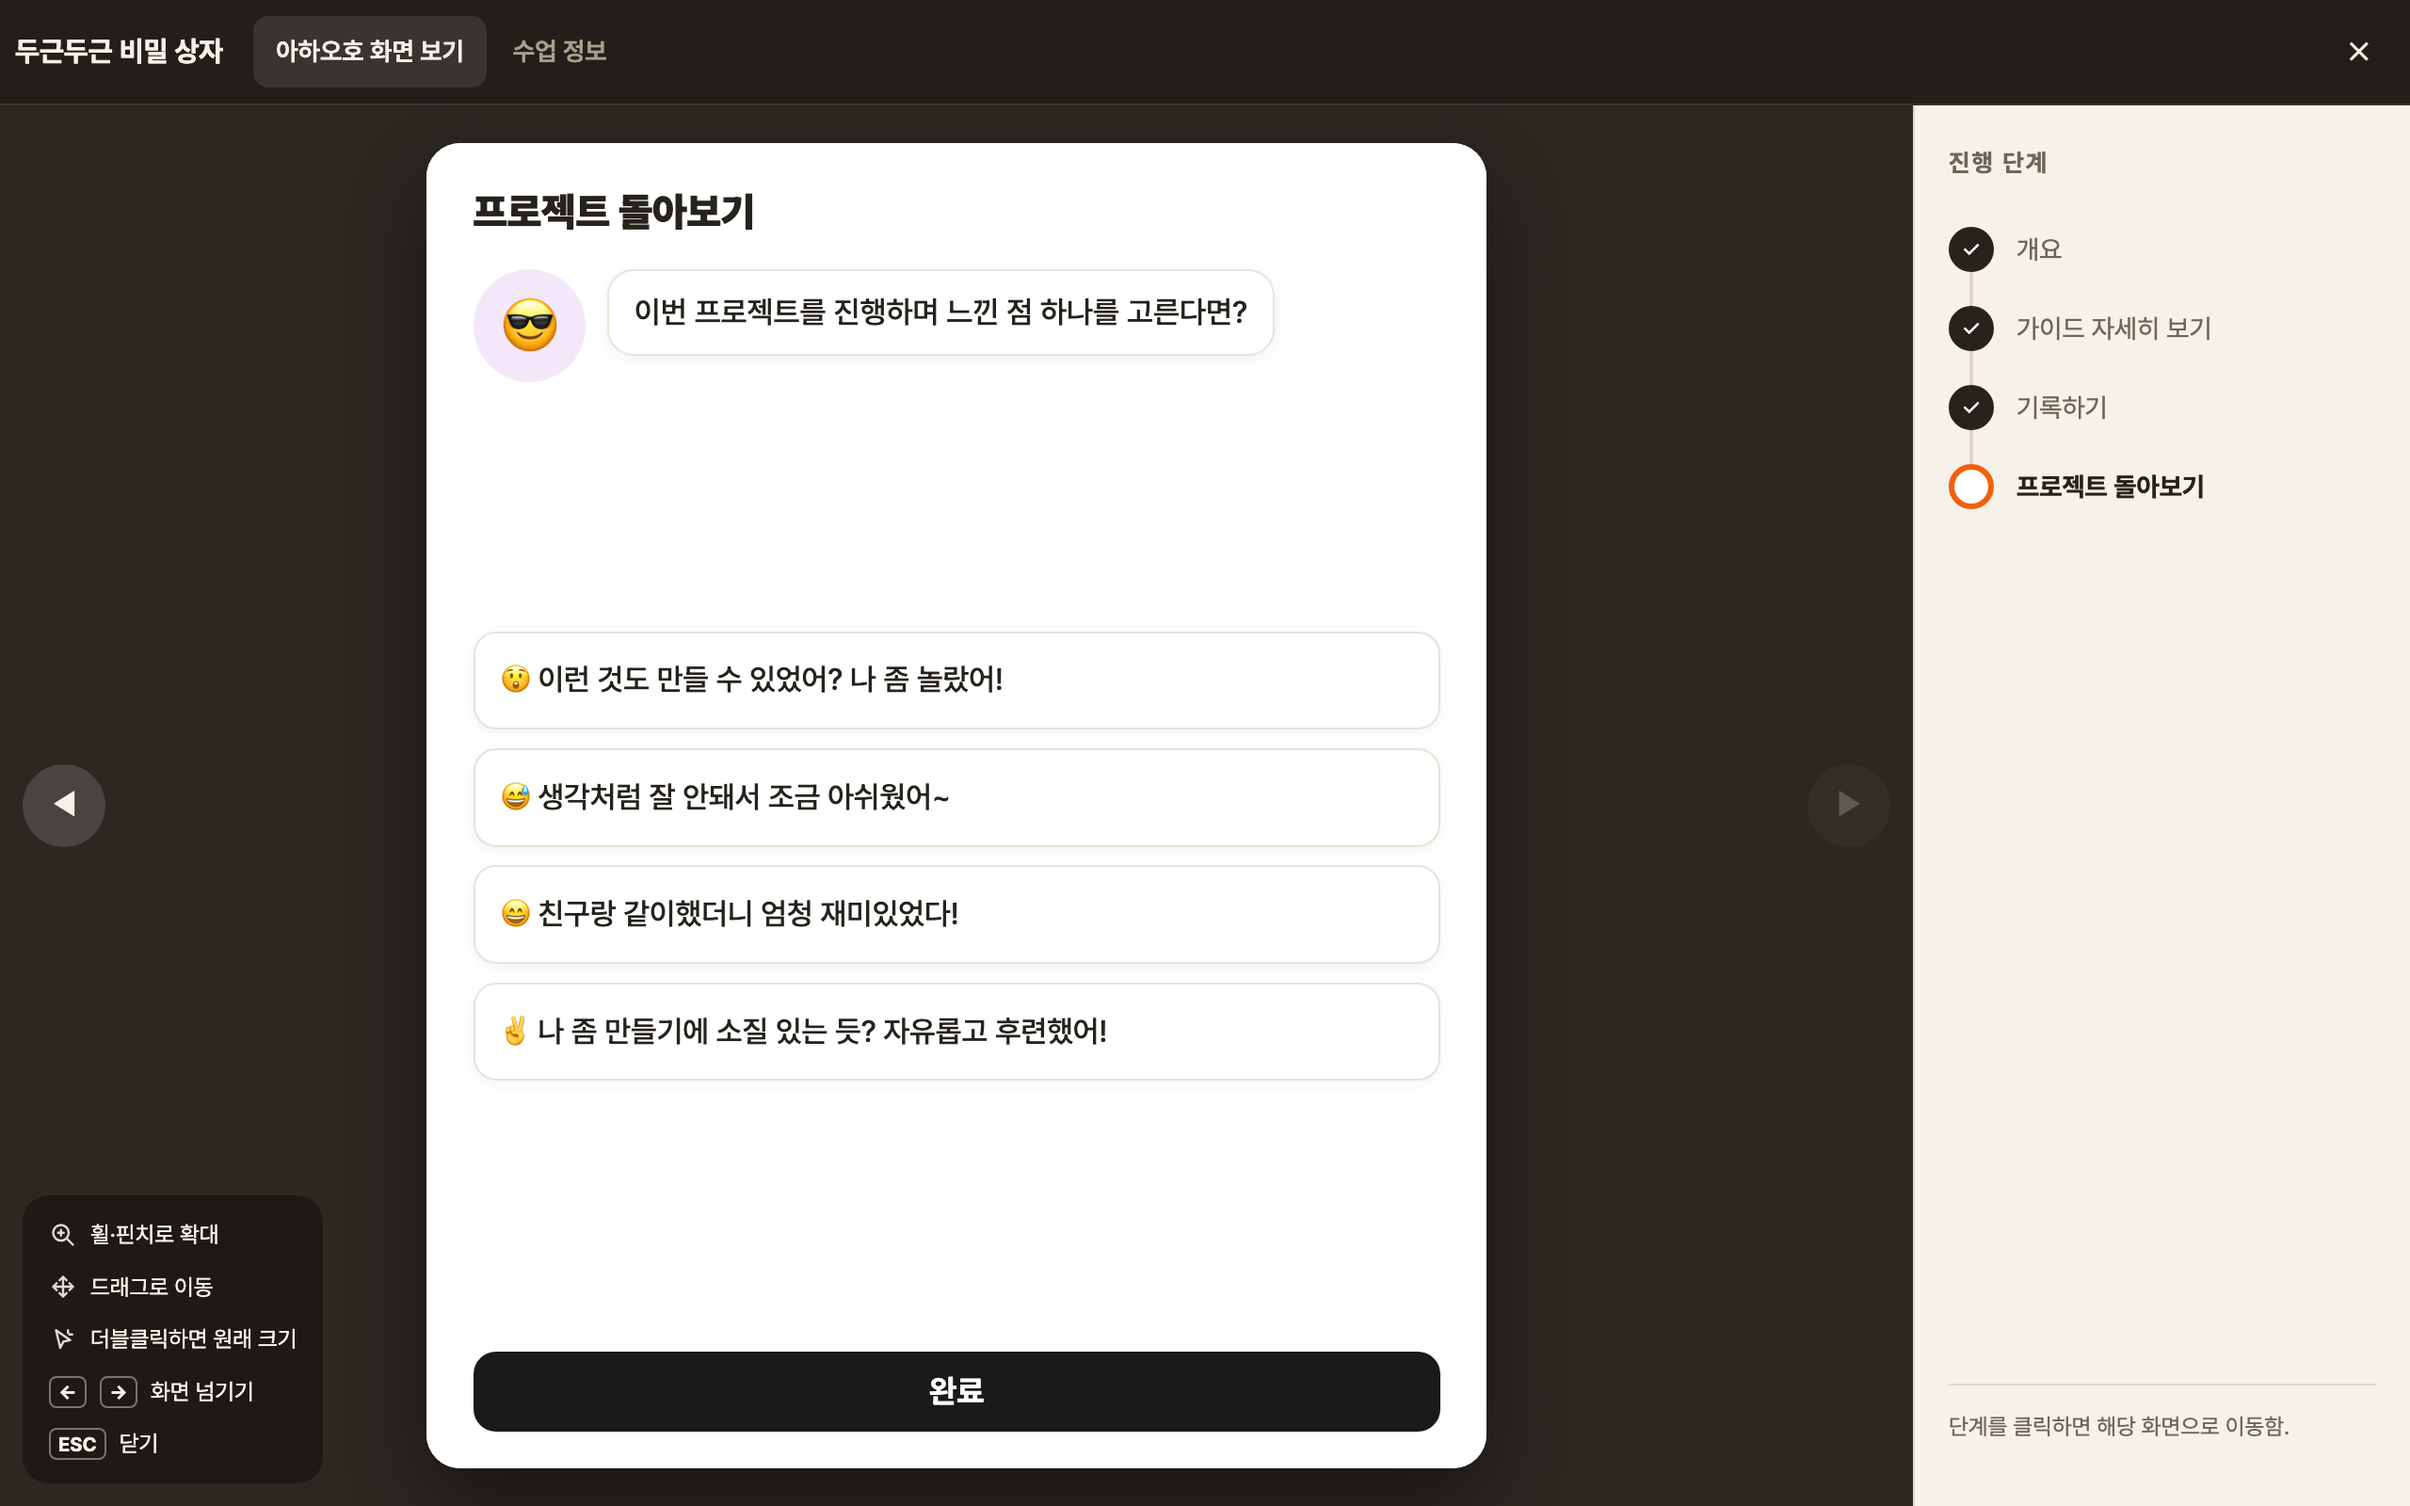
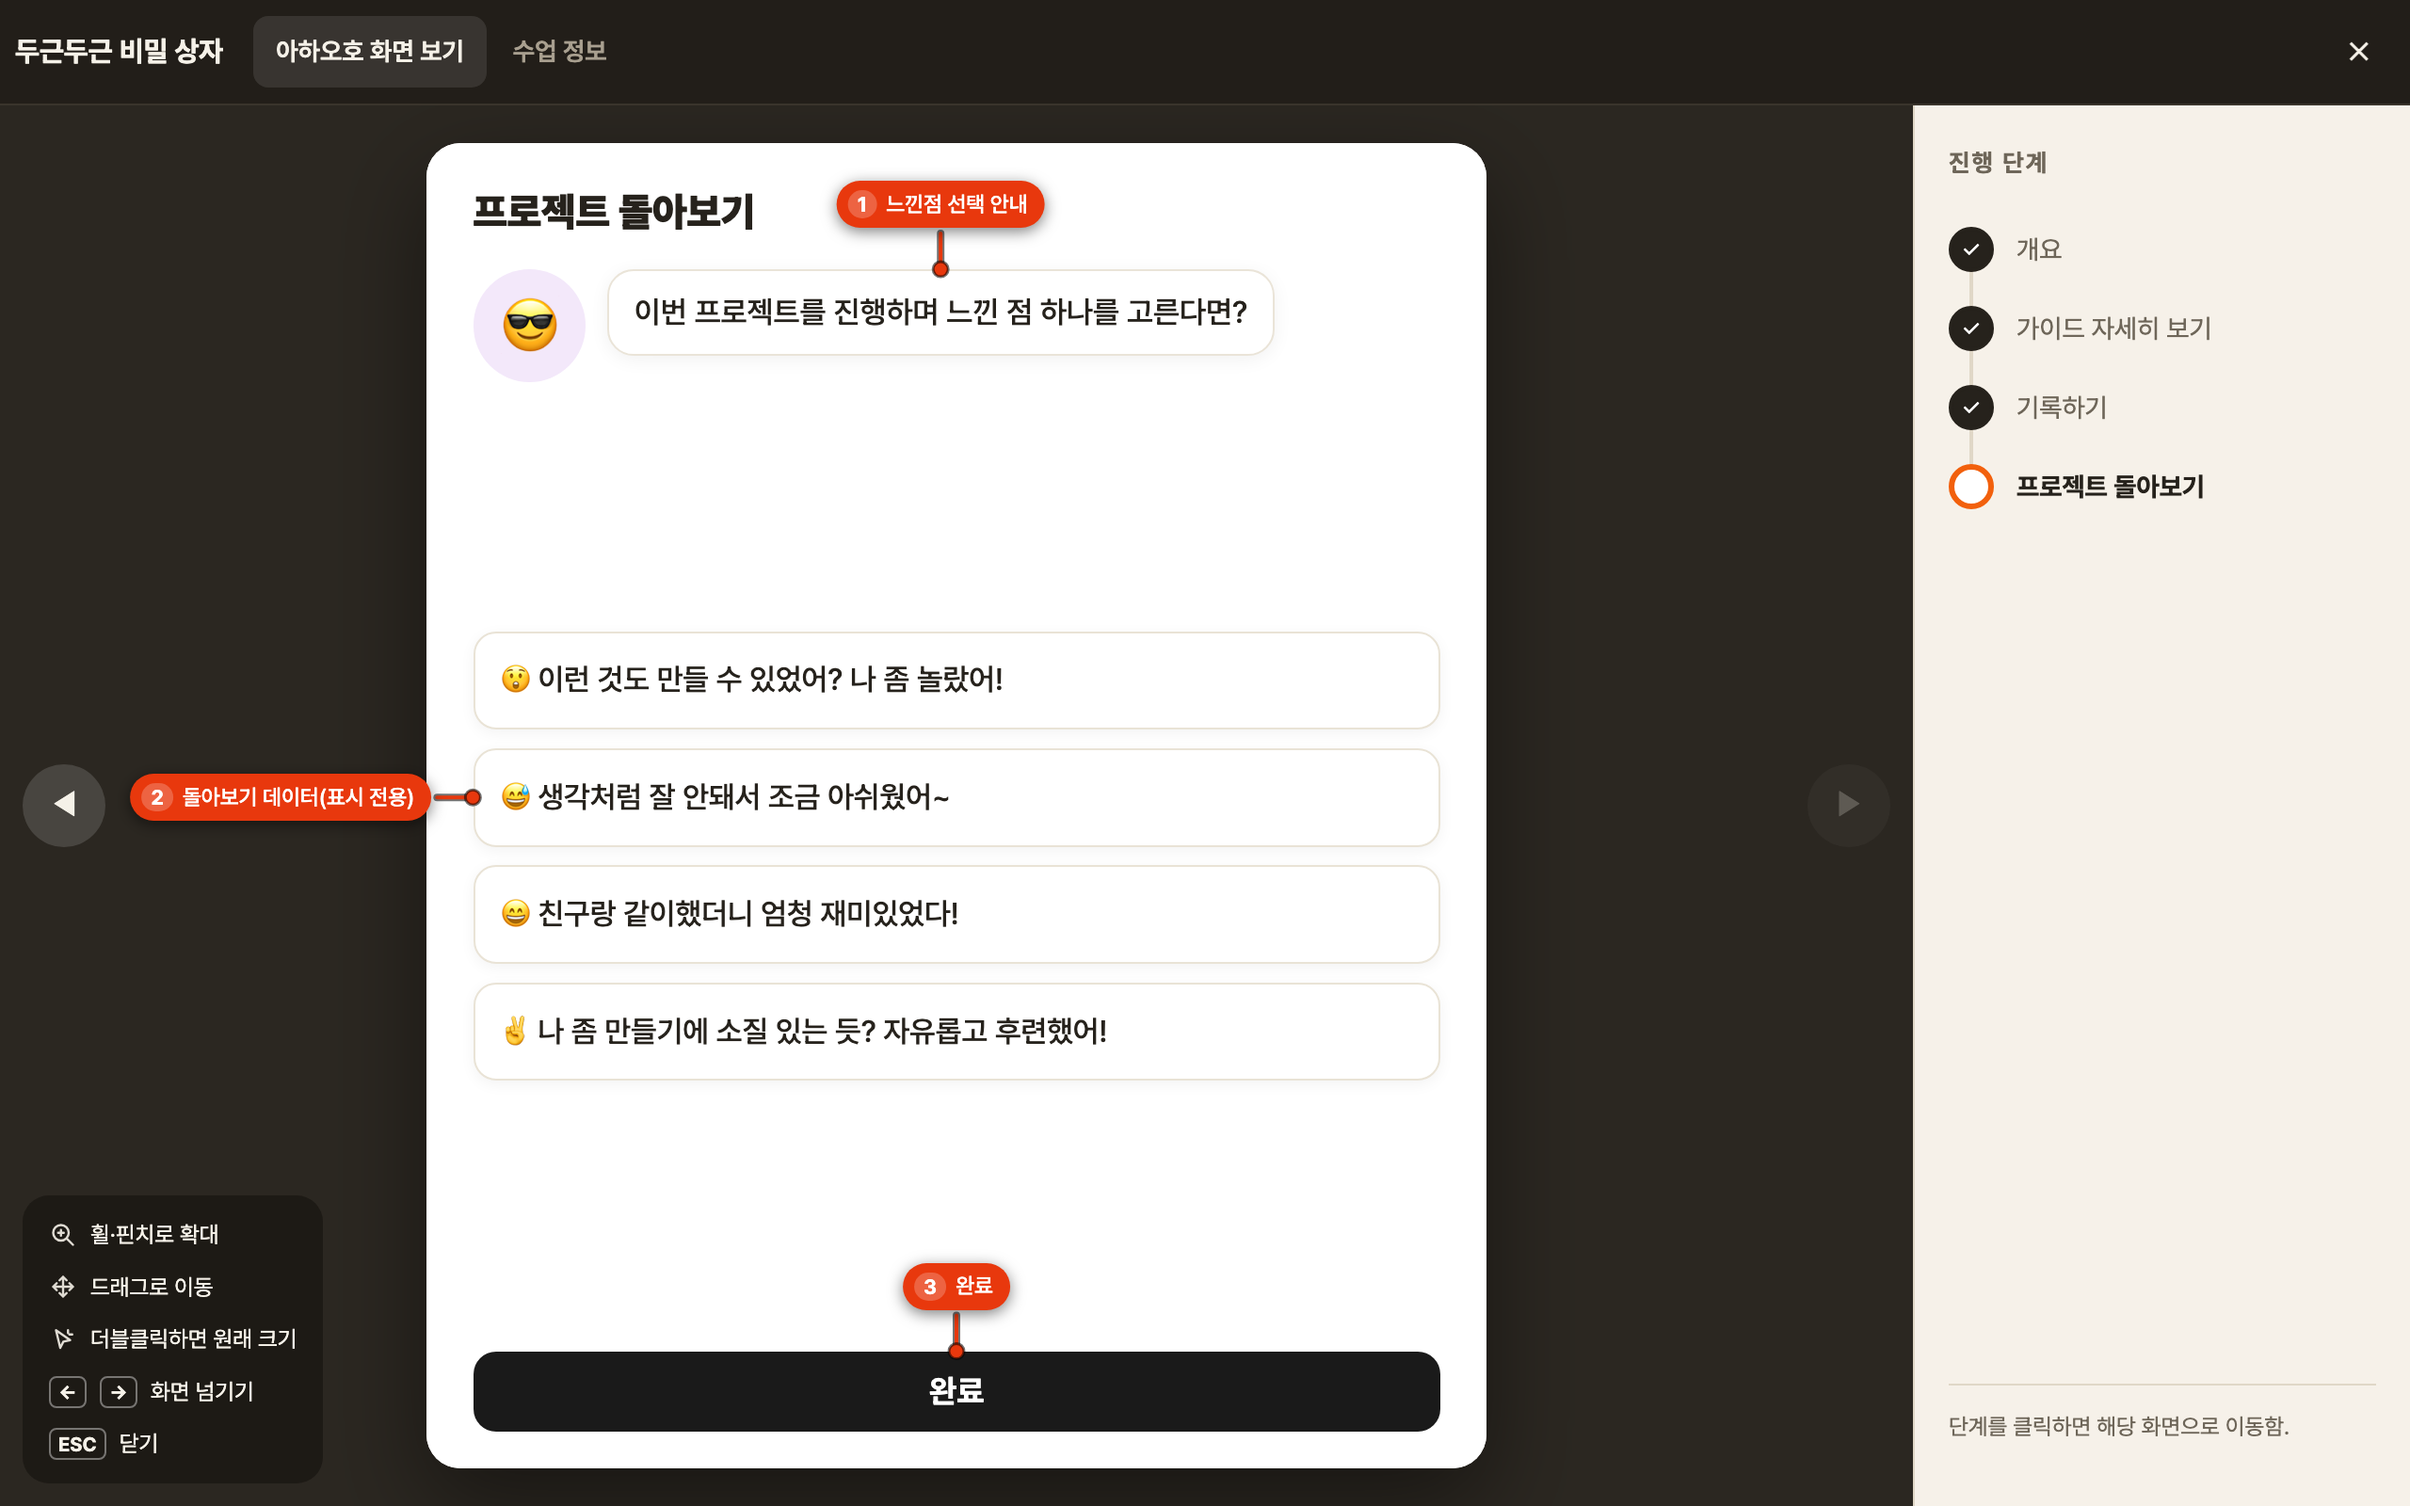
번호 표기 캡쳐 재생성 — 돌아보기 프레임이 삭제된 pickOpt를 호출해 배지가 빠지던 문제 수정

Changed region(s): [[0.0312, 0.5, 0.1875, 0.5625], [0.3438, 0.0938, 0.4375, 0.1875], [0.375, 0.8125, 0.4375, 0.9062]]

diff --git a/챌린지_상세보기모달_전체화면_개선/번호 표기 화면/_make_callouts.py b/챌린지_상세보기모달_전체화면_개선/번호 표기 화면/_make_callouts.py
@@ -98,10 +98,11 @@ FRAMES = [
     ),
     dict(
         name='프로젝트_돌아보기',
-        setup="setTab('view'); show(3); pickOpt(document.querySelectorAll('#s3 .opt')[1]);",
+        # 선택지는 클릭 불가·표시 전용으로 바뀌어 선택 상태를 만들지 않음 (돌아보기 2)
+        setup="setTab('view'); show(3);",
         co={
             '1': {'sel': '#s3 .bubble', 'at': 'top', 'dy': -28, 'label': '느낀점 선택 안내'},
-            '2': {'sel': '#s3 .opt.on', 'at': 'left', 'dx': -62, 'label': '돌아보기 데이터(선택 상태)'},
+            '2': {'sel': '#s3 .opt:nth-of-type(2)', 'at': 'left', 'dx': -62, 'label': '돌아보기 데이터(표시 전용)'},
             '3': {'sel': '#s3 .foot .btn', 'at': 'top', 'dy': -30, 'label': '완료'},
         },
     ),
